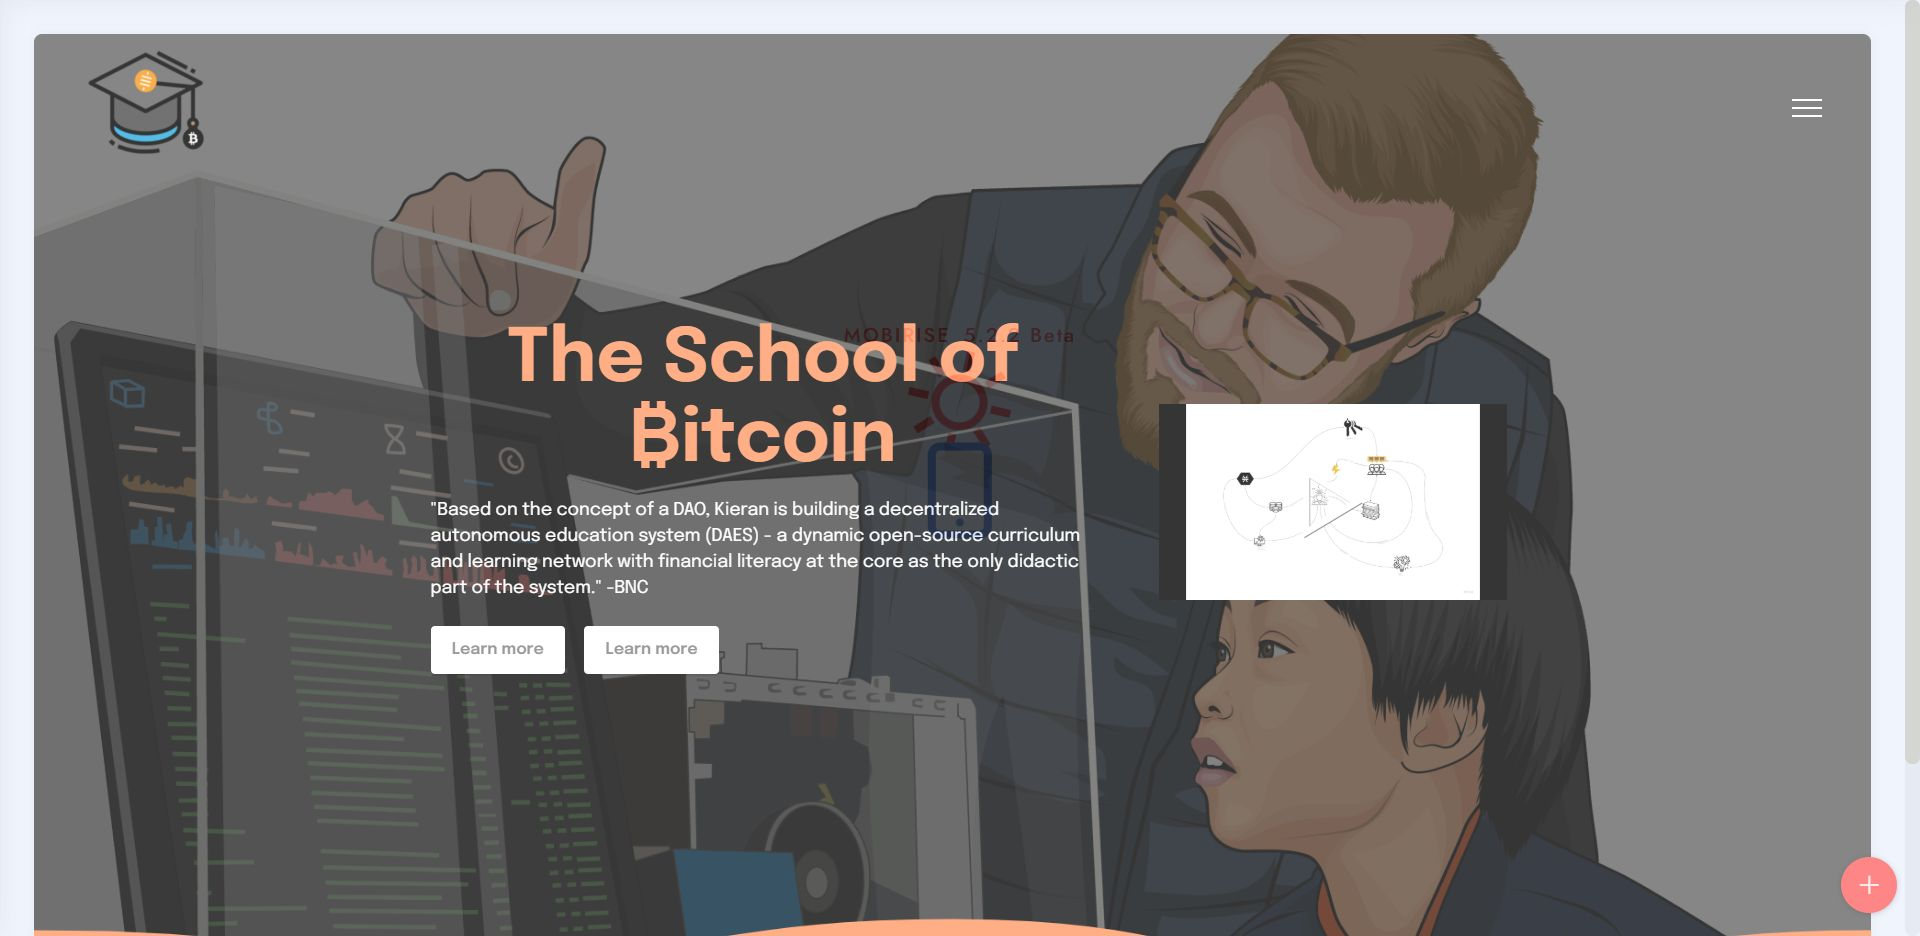
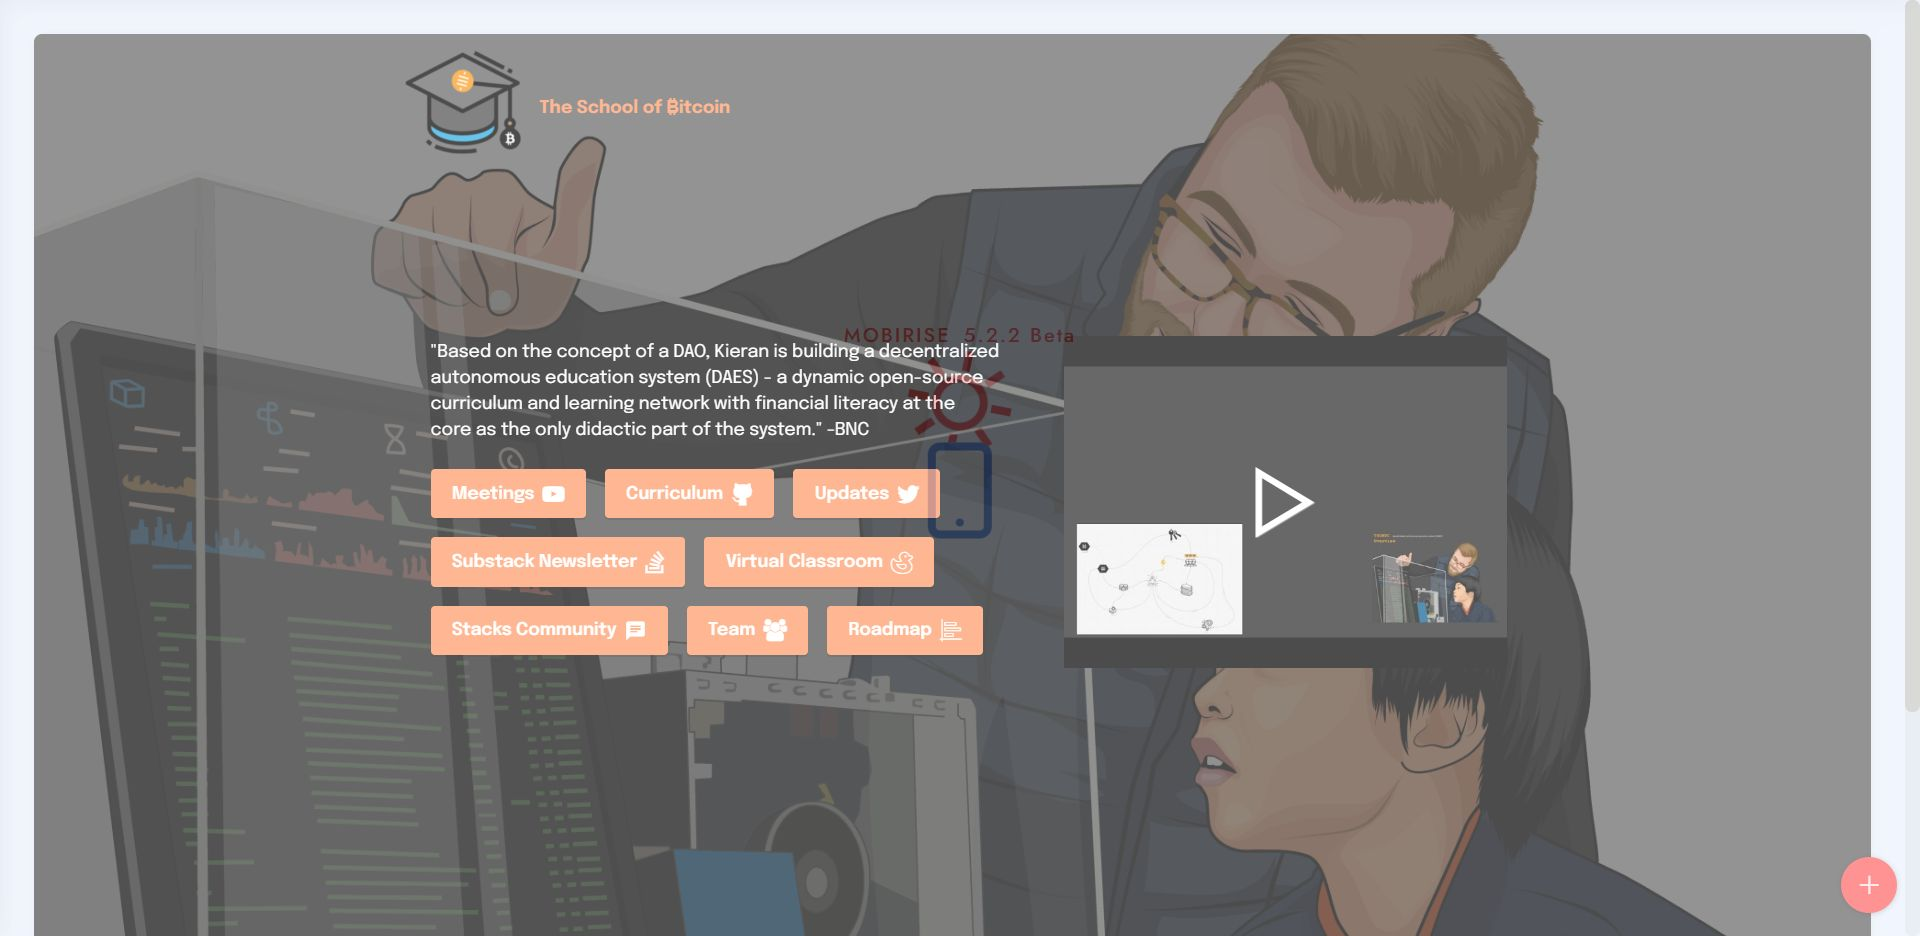
faculty
faculyy

diff --git a/page1.html b/page1.html
@@ -40,8 +40,8 @@
         </div>
         <div class="row mbr-gallery mt-4">
             <div class="col-12 col-md-6 col-lg-3 item gallery-image">
-                <div class="item-wrapper" data-toggle="modal" data-target="#sY3qAFLToB-modal">
-                    <img class="w-100" src="assets/images/features1.jpg" alt="" data-slide-to="0" data-target="#lb-sY3qAFLToB">
+                <div class="item-wrapper" data-toggle="modal" data-target="#sY6TRaYUOq-modal">
+                    <img class="w-100" src="assets/images/features1.jpg" alt="" data-slide-to="0" data-target="#lb-sY6TRaYUOq">
                     <div class="icon-wrapper">
                         <span class="mobi-mbri mobi-mbri-search mbr-iconfont mbr-iconfont-btn"></span>
                     </div>
@@ -49,8 +49,8 @@
                 
             </div>
             <div class="col-12 col-md-6 col-lg-3 item gallery-image">
-                <div class="item-wrapper" data-toggle="modal" data-target="#sY3qAFLToB-modal">
-                    <img class="w-100" src="assets/images/features2.jpg" alt="" data-slide-to="1" data-target="#lb-sY3qAFLToB">
+                <div class="item-wrapper" data-toggle="modal" data-target="#sY6TRaYUOq-modal">
+                    <img class="w-100" src="assets/images/features2.jpg" alt="" data-slide-to="1" data-target="#lb-sY6TRaYUOq">
                     <div class="icon-wrapper">
                         <span class="mobi-mbri mobi-mbri-search mbr-iconfont mbr-iconfont-btn"></span>
                     </div>
@@ -58,8 +58,8 @@
                 
             </div>
             <div class="col-12 col-md-6 col-lg-3 item gallery-image">
-                <div class="item-wrapper" data-toggle="modal" data-target="#sY3qAFLToB-modal">
-                    <img class="w-100" src="assets/images/features3.jpg" alt="" data-slide-to="2" data-target="#lb-sY3qAFLToB">
+                <div class="item-wrapper" data-toggle="modal" data-target="#sY6TRaYUOq-modal">
+                    <img class="w-100" src="assets/images/features3.jpg" alt="" data-slide-to="2" data-target="#lb-sY6TRaYUOq">
                     <div class="icon-wrapper">
                         <span class="mobi-mbri mobi-mbri-search mbr-iconfont mbr-iconfont-btn"></span>
                     </div>
@@ -67,8 +67,8 @@
                 
             </div>
             <div class="col-12 col-md-6 col-lg-3 item gallery-image">
-                <div class="item-wrapper" data-toggle="modal" data-target="#sY3qAFLToB-modal">
-                    <img class="w-100" src="assets/images/features4.jpg" alt="" data-slide-to="3" data-target="#lb-sY3qAFLToB">
+                <div class="item-wrapper" data-toggle="modal" data-target="#sY6TRaYUOq-modal">
+                    <img class="w-100" src="assets/images/features4.jpg" alt="" data-slide-to="3" data-target="#lb-sY6TRaYUOq">
                     <div class="icon-wrapper">
                         <span class="mobi-mbri mobi-mbri-search mbr-iconfont mbr-iconfont-btn"></span>
                     </div>
@@ -77,11 +77,11 @@
             </div>
         </div>
 
-        <div class="modal mbr-slider" tabindex="-1" role="dialog" aria-hidden="true" id="sY3qAFLToB-modal">
+        <div class="modal mbr-slider" tabindex="-1" role="dialog" aria-hidden="true" id="sY6TRaYUOq-modal">
             <div class="modal-dialog" role="document">
                 <div class="modal-content">
                     <div class="modal-body">
-                        <div class="carousel slide" id="lb-sY3qAFLToB" data-interval="5000">
+                        <div class="carousel slide" id="lb-sY6TRaYUOq" data-interval="5000">
                             <div class="carousel-inner">
                                 <div class="carousel-item active">
                                     <img class="d-block w-100" src="assets/images/features1.jpg" alt="">
@@ -97,18 +97,18 @@
                                 </div>
                             </div>
                             <ol class="carousel-indicators">
-                                <li data-slide-to="0" class="active" data-target="#lb-sY3qAFLToB"></li>
-                                <li data-slide-to="1" data-target="#lb-sY3qAFLToB"></li>
-                                <li data-slide-to="2" data-target="#lb-sY3qAFLToB"></li>
-                                <li data-slide-to="3" data-target="#lb-sY3qAFLToB"></li>
+                                <li data-slide-to="0" class="active" data-target="#lb-sY6TRaYUOq"></li>
+                                <li data-slide-to="1" data-target="#lb-sY6TRaYUOq"></li>
+                                <li data-slide-to="2" data-target="#lb-sY6TRaYUOq"></li>
+                                <li data-slide-to="3" data-target="#lb-sY6TRaYUOq"></li>
                             </ol>
                             <a role="button" href="" class="close" data-dismiss="modal" aria-label="Close">
                             </a>
-                            <a class="carousel-control-prev carousel-control" role="button" data-slide="prev" href="#lb-sY3qAFLToB">
+                            <a class="carousel-control-prev carousel-control" role="button" data-slide="prev" href="#lb-sY6TRaYUOq">
                                 <span class="mobi-mbri mobi-mbri-arrow-prev" aria-hidden="true"></span>
                                 <span class="sr-only">Previous</span>
                             </a>
-                            <a class="carousel-control-next carousel-control" role="button" data-slide="next" href="#lb-sY3qAFLToB">
+                            <a class="carousel-control-next carousel-control" role="button" data-slide="next" href="#lb-sY6TRaYUOq">
                                 <span class="mobi-mbri mobi-mbri-arrow-next" aria-hidden="true"></span>
                                 <span class="sr-only">Next</span>
                             </a>

diff --git a/index.html b/index.html
@@ -17,8 +17,8 @@
   <link rel="stylesheet" href="assets/icon54-v3/style.css">
   <link rel="stylesheet" href="assets/icons-mind/style.css">
   <link rel="stylesheet" href="assets/bootstrap-material-design-font/css/material.css">
-  <link rel="stylesheet" href="assets/web/assets/mobirise-icons/mobirise-icons.css">
   <link rel="stylesheet" href="assets/icon54/style.css">
+  <link rel="stylesheet" href="assets/web/assets/mobirise-icons/mobirise-icons.css">
   <link rel="stylesheet" href="assets/tether/tether.min.css">
   <link rel="stylesheet" href="assets/bootstrap/css/bootstrap.min.css">
   <link rel="stylesheet" href="assets/bootstrap/css/bootstrap-grid.min.css">
@@ -68,7 +68,7 @@
                 <div class="text-wrapper">
                     
                     <p class="mbr-text mb-3 mbr-fonts-style display-7"><a href="https://bravenewcoin.com/insights/podcasts/the-school-of-bitcoin-teaching-the-next-generation" class="text-primary" target="_blank">"Based on the concept of a DAO, Kieran is building a decentralized autonomous education system (DAES) - a dynamic open-source curriculum and learning network with financial literacy at the core as the only didactic part of the system." -BNC</a></p>
-                    <div class="mbr-section-btn"><a class="btn btn-danger display-7" href="https://www.youtube.com/playlist?list=PLwn9KgpxsZSRvMj6vHHAZbXVXOzX-sH6j" target="_blank"><span class="fa fa-youtube-play mbr-iconfont mbr-iconfont-btn"></span>Meetings</a> <a class="btn btn-danger display-7" href="https://github.com/TheSchoolofBitcoin/curriculumDAO_CD" target="_blank"><span class="socicon socicon-github mbr-iconfont mbr-iconfont-btn"></span>Curriculum</a> <a class="btn btn-danger display-7" href="https://twitter.com/theschoolofbtc" target="_blank"><span class="socicon socicon-twitter mbr-iconfont mbr-iconfont-btn"></span>Updates</a> <a class="btn btn-danger display-7" href="https://theschoolofbitcoin.substack.com/" target="_blank"><span class="fa fa-stack-overflow mbr-iconfont mbr-iconfont-btn"></span>Substack Newsletter</a> <a class="btn btn-danger display-7" href="https://hubs.mozilla.com/CmZSgSr/theschoolofbitcoin/" target="_blank"><span class="icon54-v3-rubber-duck mbr-iconfont mbr-iconfont-btn"></span>Virtual Classroom</a> <a class="btn btn-danger display-7" href="https://getsession.org/download" target="_blank"><span class="mdi-communication-chat mbr-iconfont mbr-iconfont-btn"></span>Stacks Community</a> <a class="btn btn-danger display-7" href="https://docs.google.com/document/d/e/2PACX-1vSSLsUrmO_lVEOGM-VFNOHpuENizKRlF2w7UzM5Jo6f8VowrB6NbTOiCbDTLIxDck0OkcUUkn7emX9L/pub" target="_blank"><span class="fa fa-group mbr-iconfont mbr-iconfont-btn"></span>Team</a> <a class="btn btn-danger display-7" href="https://docs.google.com/spreadsheets/d/1QRZyqstvRpnwNJI55GrFG3QrmXLp3uOyVWhQs21ZDeI/edit?usp=sharing" target="_blank"><span class="icon54-v1-landscape-chart mbr-iconfont mbr-iconfont-btn"></span>Roadmap</a></div>
+                    <div class="mbr-section-btn"><a class="btn btn-danger display-7" href="https://www.youtube.com/playlist?list=PLwn9KgpxsZSRvMj6vHHAZbXVXOzX-sH6j" target="_blank"><span class="fa fa-youtube-play mbr-iconfont mbr-iconfont-btn"></span>Meetings</a> <a class="btn btn-danger display-7" href="https://github.com/TheSchoolofBitcoin/curriculumDAO_CD" target="_blank"><span class="socicon socicon-github mbr-iconfont mbr-iconfont-btn"></span>Curriculum</a> <a class="btn btn-danger display-7" href="https://twitter.com/theschoolofbtc" target="_blank"><span class="socicon socicon-twitter mbr-iconfont mbr-iconfont-btn"></span>Updates</a> <a class="btn btn-danger display-7" href="https://theschoolofbitcoin.substack.com/" target="_blank"><span class="fa fa-stack-overflow mbr-iconfont mbr-iconfont-btn"></span>Substack Newsletter</a> <a class="btn btn-danger display-7" href="https://hubs.mozilla.com/CmZSgSr/theschoolofbitcoin/" target="_blank"><span class="icon54-v3-rubber-duck mbr-iconfont mbr-iconfont-btn"></span>Virtual Classroom</a> <a class="btn btn-danger display-7" href="https://getsession.org/download" target="_blank"><span class="mdi-communication-chat mbr-iconfont mbr-iconfont-btn"></span>Stacks Community</a> <a class="btn btn-danger display-7" href="https://www.linkedin.com/company/78805921/admin/" target="_blank"><span class="fa fa-linkedin-square mbr-iconfont mbr-iconfont-btn"></span>Faculty</a> <a class="btn btn-danger display-7" href="https://docs.google.com/spreadsheets/d/1QRZyqstvRpnwNJI55GrFG3QrmXLp3uOyVWhQs21ZDeI/edit?usp=sharing" target="_blank"><span class="icon54-v1-landscape-chart mbr-iconfont mbr-iconfont-btn"></span>Roadmap</a></div>
                 </div>
             </div>
             <div class="mbr-figure col-12 col-md-5"><iframe class="mbr-embedded-video" src="https://www.youtube.com/embed/hNxNwY8R9SE?rel=0&amp;amp;showinfo=0&amp;autoplay=0&amp;loop=0" width="1280" height="720" frameborder="0" allowfullscreen></iframe></div>
